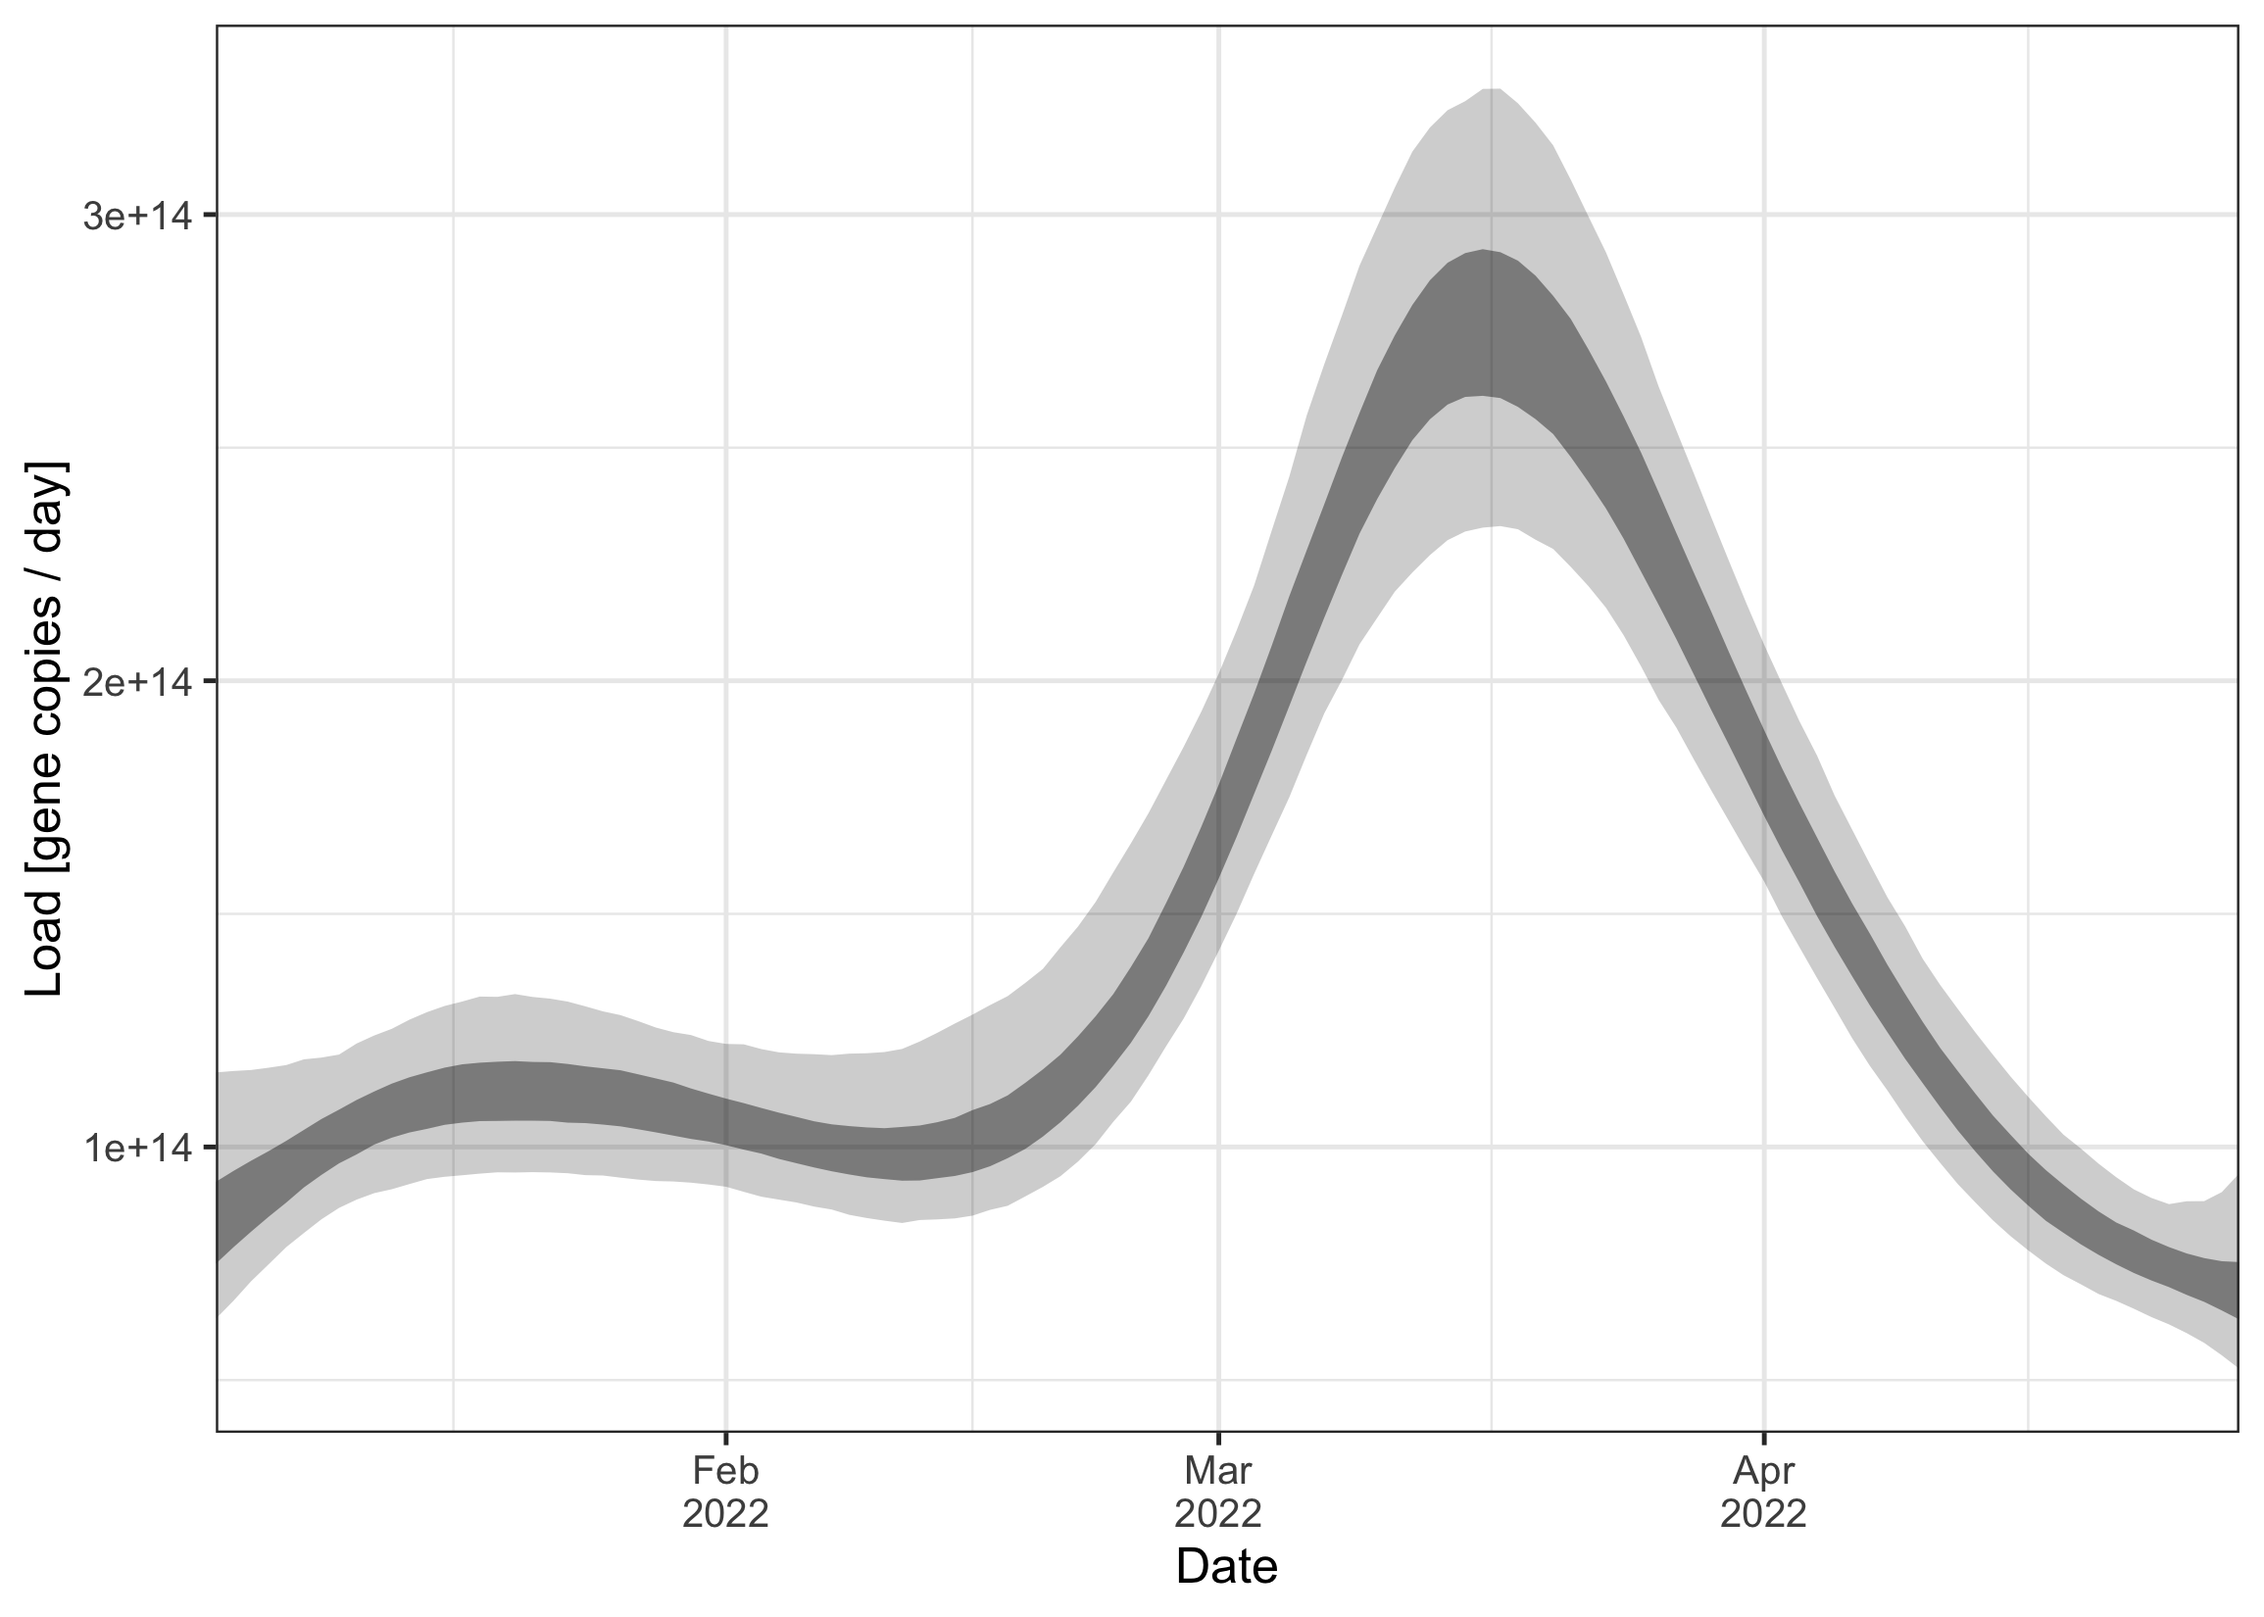
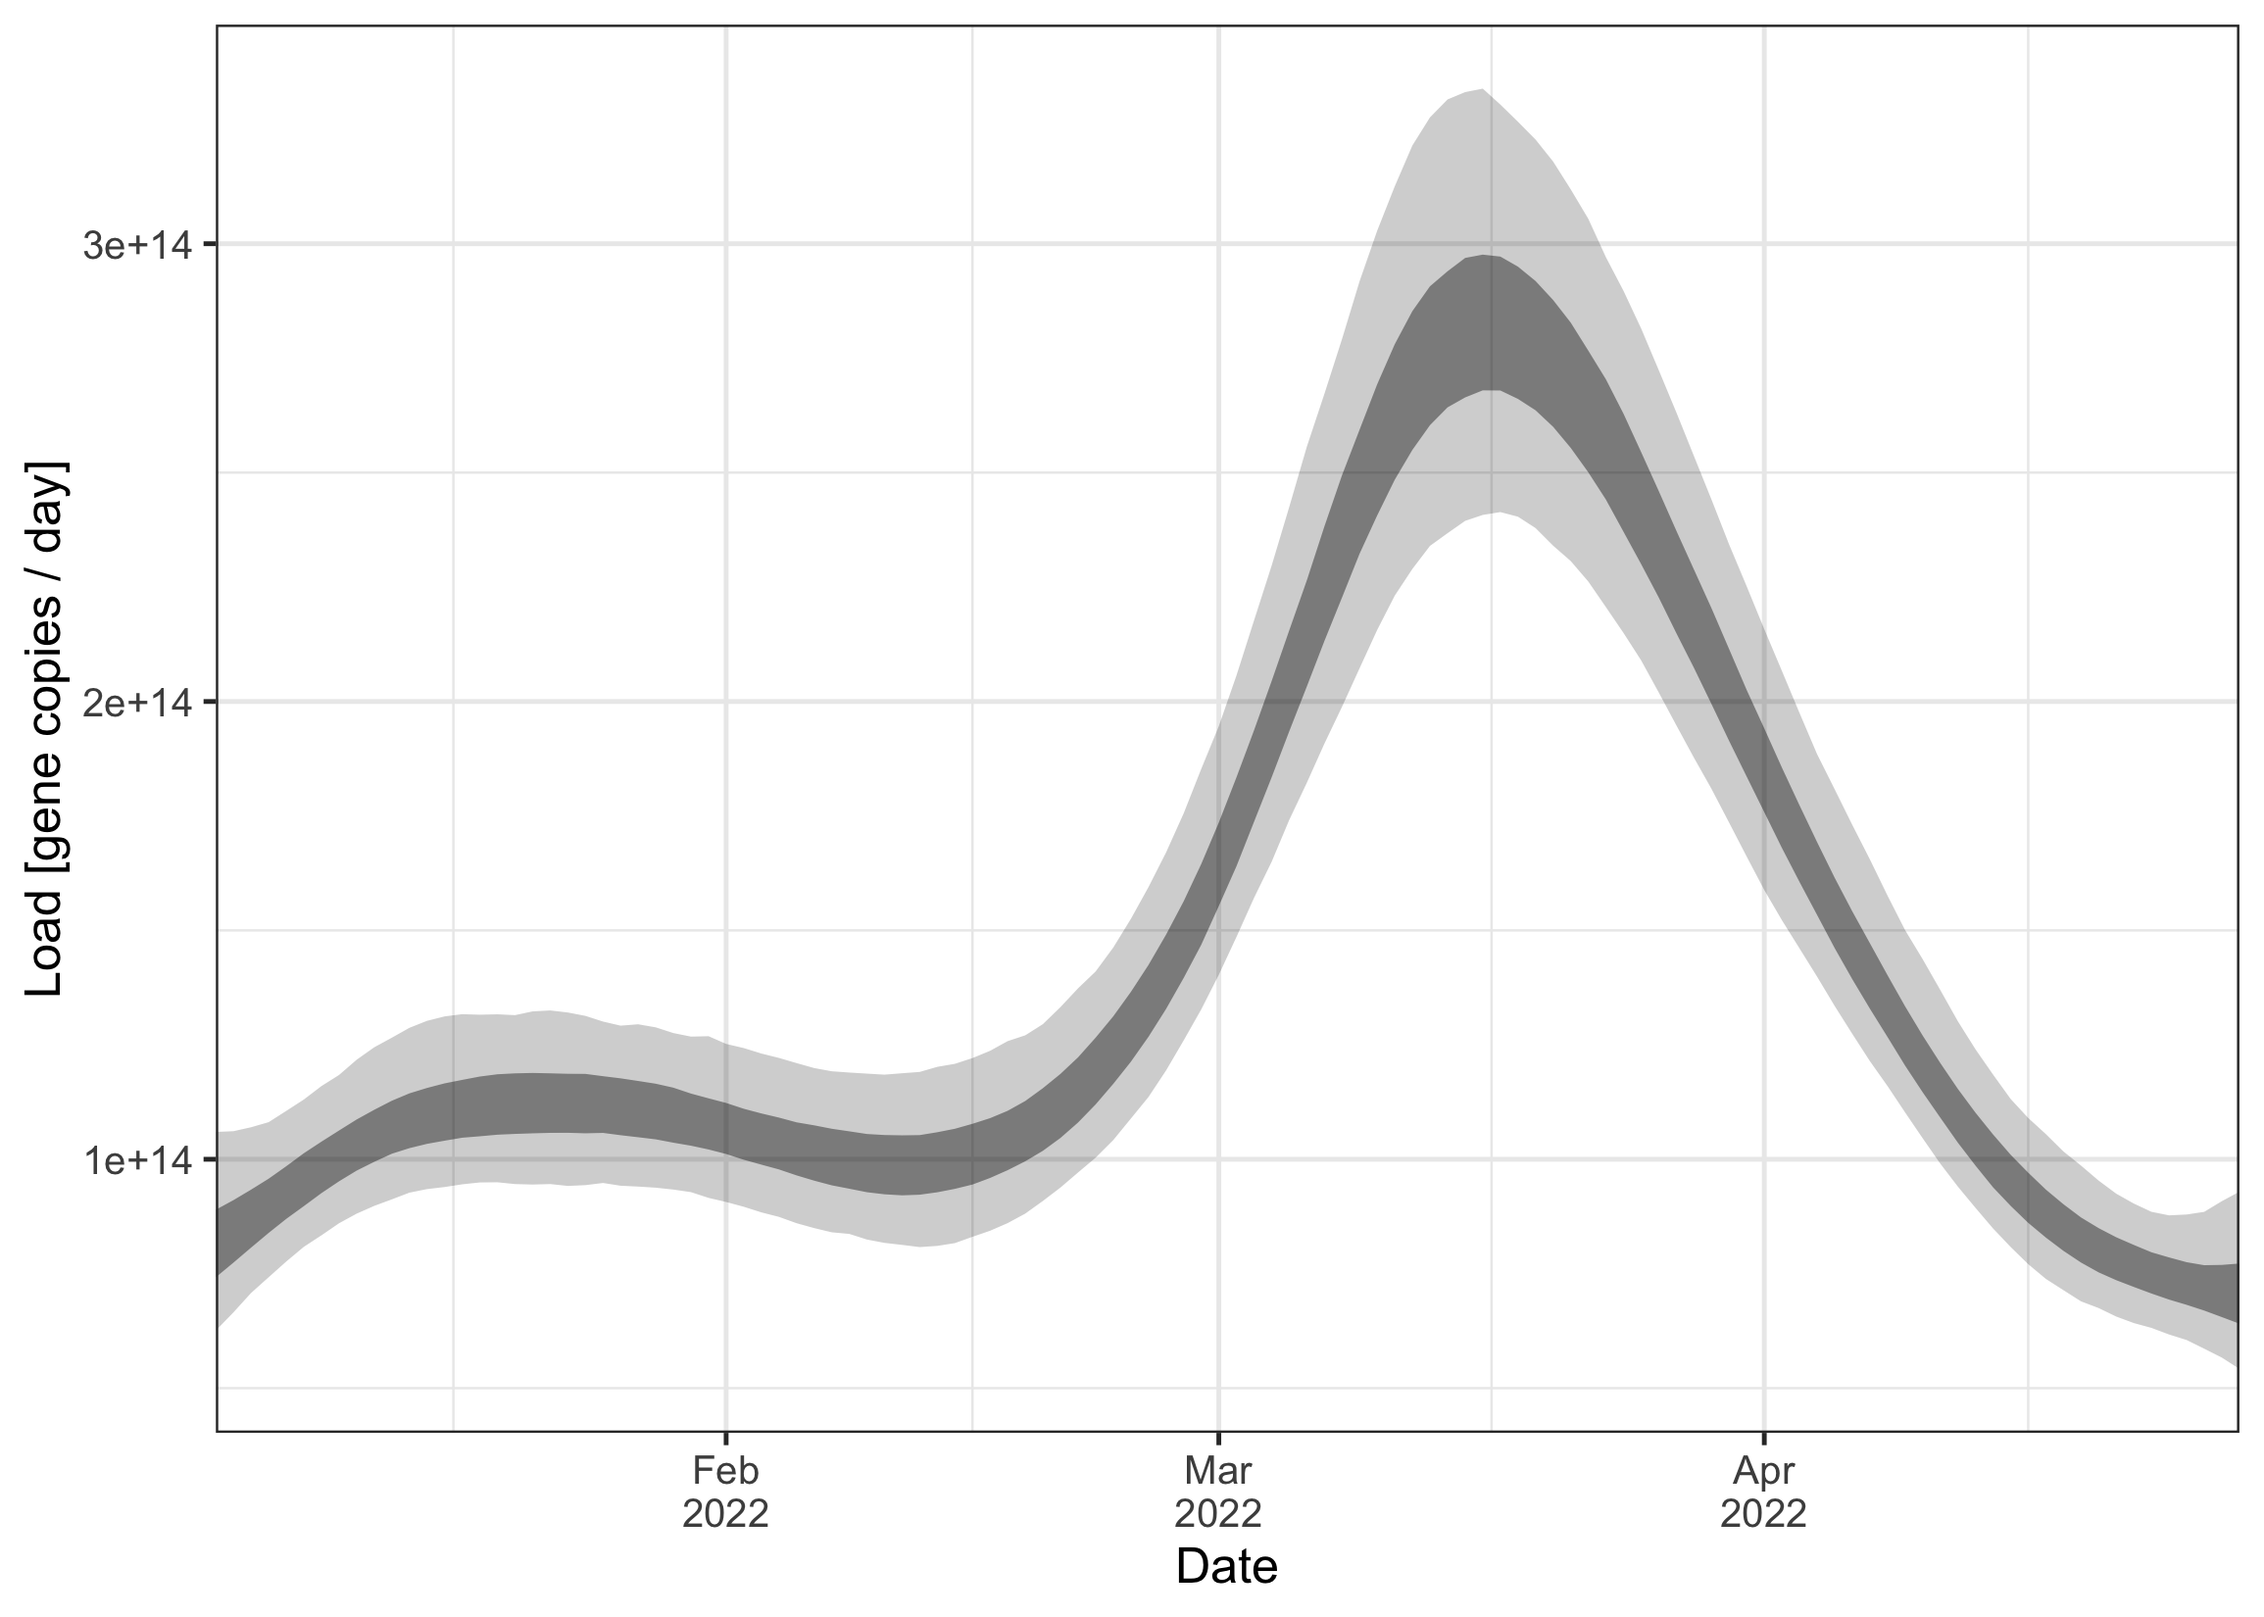
Update README

diff --git a/README.md b/README.md
@@ -43,6 +43,9 @@ easily configurable modeling components.
 ⭐ Flexible $R_t$ smoothing (random walk, exponential smoothing,
 splines)
 
+**Forecast**  
+⭐ Probabilistic forecasts of $R_t$, infections, concentrations and more
+
 ## Installing the package
 
 The development version of `EpiSewer` can be installed from GitHub as
@@ -195,18 +198,18 @@ concentration (mL here in both cases).
 
 ``` r
 data_zurich$flows
-#>            date         flow
-#>   1: 2022-01-01 341163082483
-#>   2: 2022-01-02 341163082483
-#>   3: 2022-01-03 158972454250
-#>   4: 2022-01-04 160849294683
-#>   5: 2022-01-05 372301227483
-#>  ---                        
-#> 116: 2022-04-26 330658518200
-#> 117: 2022-04-27 206045734750
-#> 118: 2022-04-28 158372697017
-#> 119: 2022-04-29 152155673150
-#> 120: 2022-04-30 208684746067
+#>            date        flow
+#>   1: 2022-01-01 3.41163e+11
+#>   2: 2022-01-02 3.41163e+11
+#>   3: 2022-01-03 1.58972e+11
+#>   4: 2022-01-04 1.60849e+11
+#>   5: 2022-01-05 3.72301e+11
+#>  ---                       
+#> 116: 2022-04-26 3.30659e+11
+#> 117: 2022-04-27 2.06046e+11
+#> 118: 2022-04-28 1.58373e+11
+#> 119: 2022-04-29 1.52156e+11
+#> 120: 2022-04-30 2.08685e+11
 ```
 
 Note: In contrast to the concentration measurements, the flow data must
@@ -344,36 +347,42 @@ model. Plots are a convenient way to get a quick overview.
 
 It is good practice to first assess how well the model actually fitted
 to the data. For this, we plot the observed concentration measurements
-against the ones predicted by the model. The ribbon shows the 95%
-credible interval. The black dots show measurements that we have
-actually observed in our artificially sparse data set (only Mondays and
-Thursdays). The grey crosses show all the other measurements that were
-not available to the model. As we can see, the model still achieved a
-decent fit on these missing days.
+against the ones predicted by the model. The inner and outer ribbons
+show the 50% and 95% credible intervals. The black dots show
+measurements that we have actually observed in our artificially sparse
+data set (only Mondays and Thursdays). The grey crosses show all the
+other measurements that were not available to the model. As we can see,
+the model still achieved a decent fit on these missing days.
 
 ``` r
 plot_concentration(ww_result, measurements = data_zurich$measurements)
 ```
 
-<img src="man/figures/README-concentration-1.png" width="100%" /> By
-default, the function `plot_concentration()` includes the modeled
-measurement noise in the predicted concentrations. If you only want to
-see the predicted expected concentration without noise, set
-`include_noise = FALSE`.
+<img src="man/figures/README-concentration-1.png" width="100%" />
+
+By default, the function `plot_concentration()` shows absolute
+concentrations, which strongly depend on the daily wastewater flow.
+Alternatively, we can plot the flow-normalized concentration by setting
+`normalized = TRUE`. This will show the hypothetical concentration if
+the flow was at its median value. For this option, we need to provide
+the flow data as well (see below).
 
 ``` r
-plot_concentration(ww_result, measurements = data_zurich$measurements, include_noise = FALSE)
+plot_concentration(ww_result, measurements = data_zurich$measurements, flows = data_zurich$flows, normalized = TRUE)
 ```
 
 <img src="man/figures/README-concentration_noise-1.png" width="100%" />
+As can be seen, the normalization removes the noise due to the daily
+variation of flow. The remaining uncertainty is due to the measurement
+noise and other sources of variation.
 
 #### Time-varying effective reproduction number
 
 Since the model fit looked decent at first glance, we now inspect our
 main parameter of interest, the effective reproduction number over time.
-Again, the ribbon shows the 95% credible interval. We see that even with
-only two measurements per week, we get a fairly clear signal for R being
-above or below the critical threshold of 1.
+Again, the ribbons show the 50% and 95% credible intervals. We see that
+even with only two measurements per week, we get a fairly clear signal
+for R being above or below the critical threshold of 1.
 
 ``` r
 plot_R(ww_result)
@@ -433,27 +442,14 @@ As we can see, the prior (in grey) and posterior (in blue) differ
 substantially, indicating that this parameter is well informed by the
 data.
 
-We can also inspect the CV for the individual-level variation in
-shedding loads which is estimated by EpiSewer:
-
-``` r
-plot_prior_posterior(ww_result, "load_variation_cv")
-```
-
-<img src="man/figures/README-prior_posterior_load_cv-1.png" width="100%" />
-As we can see here, the prior and posterior are almost identical, which
-shows that this parameter cannot be really estimated from the data.
-Thus, our uncertainty about individual-level shedding load variation is
-not reduced by fitting to the data and solely informed by our broad
-prior.
-
 ### More details
 
 We can further inspect our results object. It has three attributes:
 
 ``` r
 names(ww_result)
-#> [1] "job"        "stan_model" "checksums"  "summary"    "fitted"
+#> [1] "job"         "stan_model"  "checksums"   "summary"     "fitted"     
+#> [6] "diagnostics" "runtime"
 ```
 
 The `job` attribute stores all information about the job that was
@@ -463,9 +459,9 @@ meta-information, and the settings for the sampler. By calling
 
 ``` r
 names(ww_result$job)
-#> [1] "job_name"      "jobarray_size" "data"          "model"        
-#> [5] "init"          "fit_opts"      "priors_text"   "metainfo"     
-#> [9] "overwrite"
+#>  [1] "job_name"      "jobarray_size" "data"          "model"        
+#>  [5] "init"          "fit_opts"      "results_opts"  "priors_text"  
+#>  [9] "metainfo"      "overwrite"
 ```
 
 In particular, we can print a concise summary of the modeling details
@@ -495,7 +491,7 @@ ww_result$job$model
 #>  |- generation_dist_assume
 #>  |- R_estimate_splines
 #>  |- seeding_estimate_rw
-#>  |- infection_noise_estimate (overdispersion = FALSE)
+#>  |- infection_noise_estimate (overdispersion = TRUE)
 ```
 
 ➡ Check out the [model specification](vignettes/model-specification.md)
@@ -508,11 +504,11 @@ parameters from the model.
 
 ``` r
 names(ww_result$summary)
-#> [1] "R"                           "R_samples"                  
-#> [3] "expected_infections"         "expected_infections_samples"
-#> [5] "infections"                  "infections_samples"         
-#> [7] "expected_load"               "expected_concentration"     
-#> [9] "concentration"
+#>  [1] "R"                           "R_samples"                  
+#>  [3] "expected_infections"         "expected_infections_samples"
+#>  [5] "infections"                  "infections_samples"         
+#>  [7] "expected_load"               "expected_concentration"     
+#>  [9] "concentration"               "normalized_concentration"
 ```
 
 For example, we can access the exact estimates for the reproduction
@@ -520,30 +516,30 @@ number.
 
 ``` r
 ww_result$summary$R
-#>            date      mean    median lower_0.95 lower_0.5 upper_0.5 upper_0.95
-#>   1: 2021-12-06 1.0677532 1.0597600  0.7376447 0.9644702  1.168880   1.392586
-#>   2: 2021-12-07 1.0686402 1.0612000  0.7641206 0.9684573  1.163675   1.383842
-#>   3: 2021-12-08 1.0696771 1.0627000  0.7790942 0.9695755  1.162902   1.379000
-#>   4: 2021-12-09 1.0708548 1.0631000  0.7895383 0.9734535  1.161805   1.367851
-#>   5: 2021-12-10 1.0721631 1.0644950  0.8011415 0.9788717  1.161825   1.358601
-#>  ---                                                                         
-#> 140: 2022-04-24 0.9772645 0.9715175  0.7512149 0.8977970  1.052825   1.226163
-#> 141: 2022-04-25 0.9771118 0.9699495  0.7359722 0.8900868  1.056298   1.250144
-#> 142: 2022-04-26 0.9771515 0.9729495  0.7167654 0.8845507  1.061923   1.281037
-#> 143: 2022-04-27 0.9774270 0.9738840  0.6972232 0.8773860  1.070855   1.309254
-#> 144: 2022-04-28 0.9778231 0.9760445  0.6676156 0.8707375  1.075880   1.340137
-#>      seeding
-#>   1:    TRUE
-#>   2:    TRUE
-#>   3:    TRUE
-#>   4:    TRUE
-#>   5:    TRUE
-#>  ---        
-#> 140:   FALSE
-#> 141:   FALSE
-#> 142:   FALSE
-#> 143:   FALSE
-#> 144:   FALSE
+#>            date     mean    median lower_0.95 lower_0.5 upper_0.5 upper_0.95
+#>   1: 2021-12-06 1.057070 1.0534600  0.7180864 0.9475715  1.164473   1.389037
+#>   2: 2021-12-07 1.057873 1.0568600  0.7347721 0.9507918  1.159447   1.373973
+#>   3: 2021-12-08 1.058745 1.0567550  0.7454529 0.9565968  1.155763   1.369990
+#>   4: 2021-12-09 1.059704 1.0586950  0.7618145 0.9586132  1.154875   1.363541
+#>   5: 2021-12-10 1.060766 1.0602150  0.7736401 0.9642983  1.151640   1.356843
+#>  ---                                                                        
+#> 140: 2022-04-24 1.002303 0.9965760  0.7710008 0.9179753  1.078525   1.260889
+#> 141: 2022-04-25 1.001677 0.9931750  0.7660747 0.9120835  1.084307   1.282745
+#> 142: 2022-04-26 1.001139 0.9912940  0.7396670 0.9065590  1.090285   1.300052
+#> 143: 2022-04-27 1.001043 0.9908050  0.7076593 0.8989483  1.095713   1.332602
+#> 144: 2022-04-28 1.001217 0.9886565  0.6802538 0.8908200  1.102902   1.366871
+#>          type seeding
+#>   1: estimate    TRUE
+#>   2: estimate    TRUE
+#>   3: estimate    TRUE
+#>   4: estimate    TRUE
+#>   5: estimate    TRUE
+#>  ---                 
+#> 140: estimate   FALSE
+#> 141: estimate   FALSE
+#> 142: estimate   FALSE
+#> 143: estimate   FALSE
+#> 144: estimate   FALSE
 ```
 
 The `fitted` attribute provides access to all details of the fitted stan
@@ -587,7 +583,7 @@ ww_result$fitted$diagnostic_summary()
 #> [1] 0 0 0 0
 #> 
 #> $ebfmi
-#> [1] 0.8404351 0.8599965 0.7253768 0.8287051
+#> [1] 0.9085252 0.8085946 0.9519023 0.9128638
 ```
 
 Finally, the `checksums` attribute gives us several checksums that
@@ -599,14 +595,17 @@ is not NULL), then the results should also be identical.
 ``` r
 ww_result$checksums
 #> $model
-#> [1] "77c97cfa2bfba2be740b2fbae8ae59b1"
+#> [1] "26d196fc076d5a62250ef75adfafc374"
 #> 
 #> $input
-#> [1] "079bf4474da23e47636126383424f64c"
+#> [1] "67b770f362109ab2c1dac1ec3005cc82"
 #> 
 #> $fit_opts
-#> [1] "3d0f79a45e43b33e7c77ffaee9760d1c"
+#> [1] "0b699761abddab7374683c99704ac469"
+#> 
+#> $results_opts
+#> [1] "e92f83d0ca5d22b3bb5849d62c5412ee"
 #> 
 #> $init
-#> [1] "4c66acdaea245b71fe10c9366a583479"
+#> [1] "1dd36391cea4ba7b2e97de06c36e8048"
 ```
